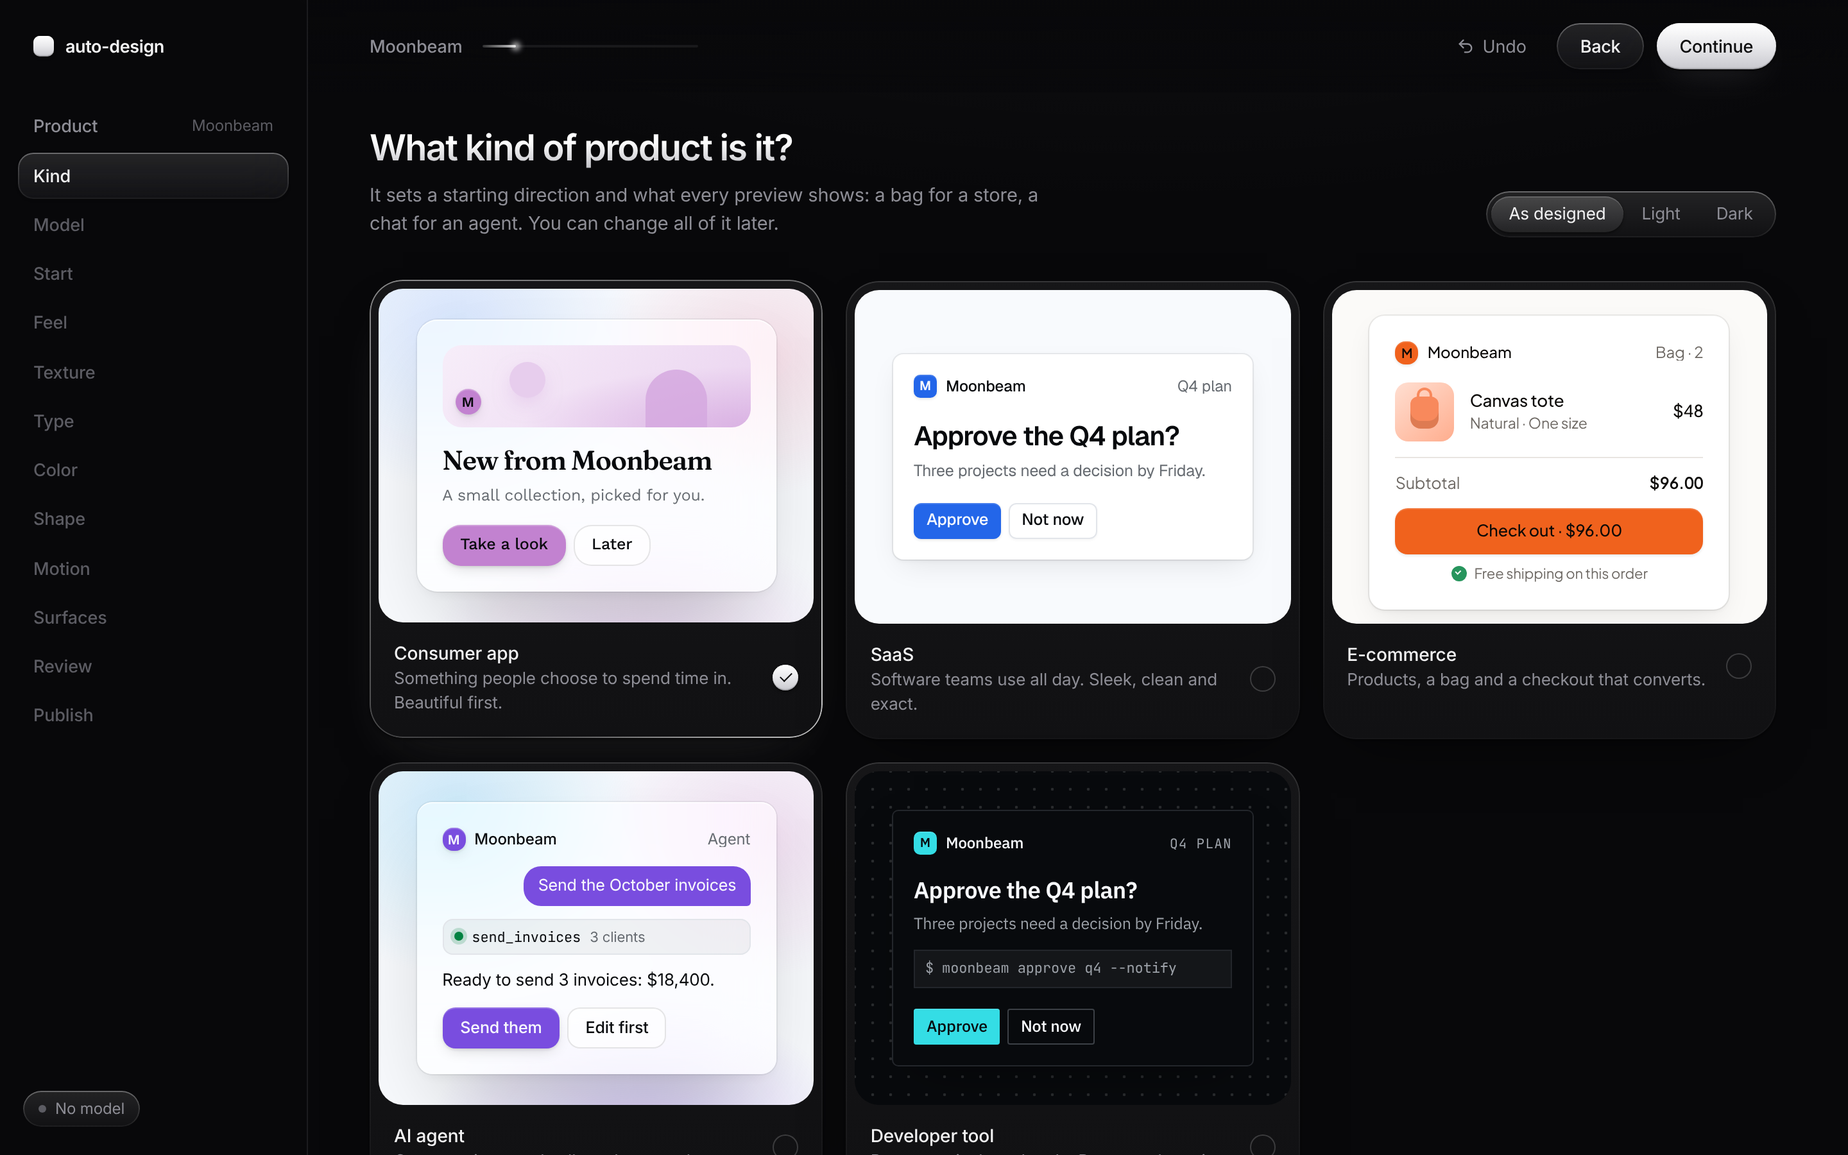
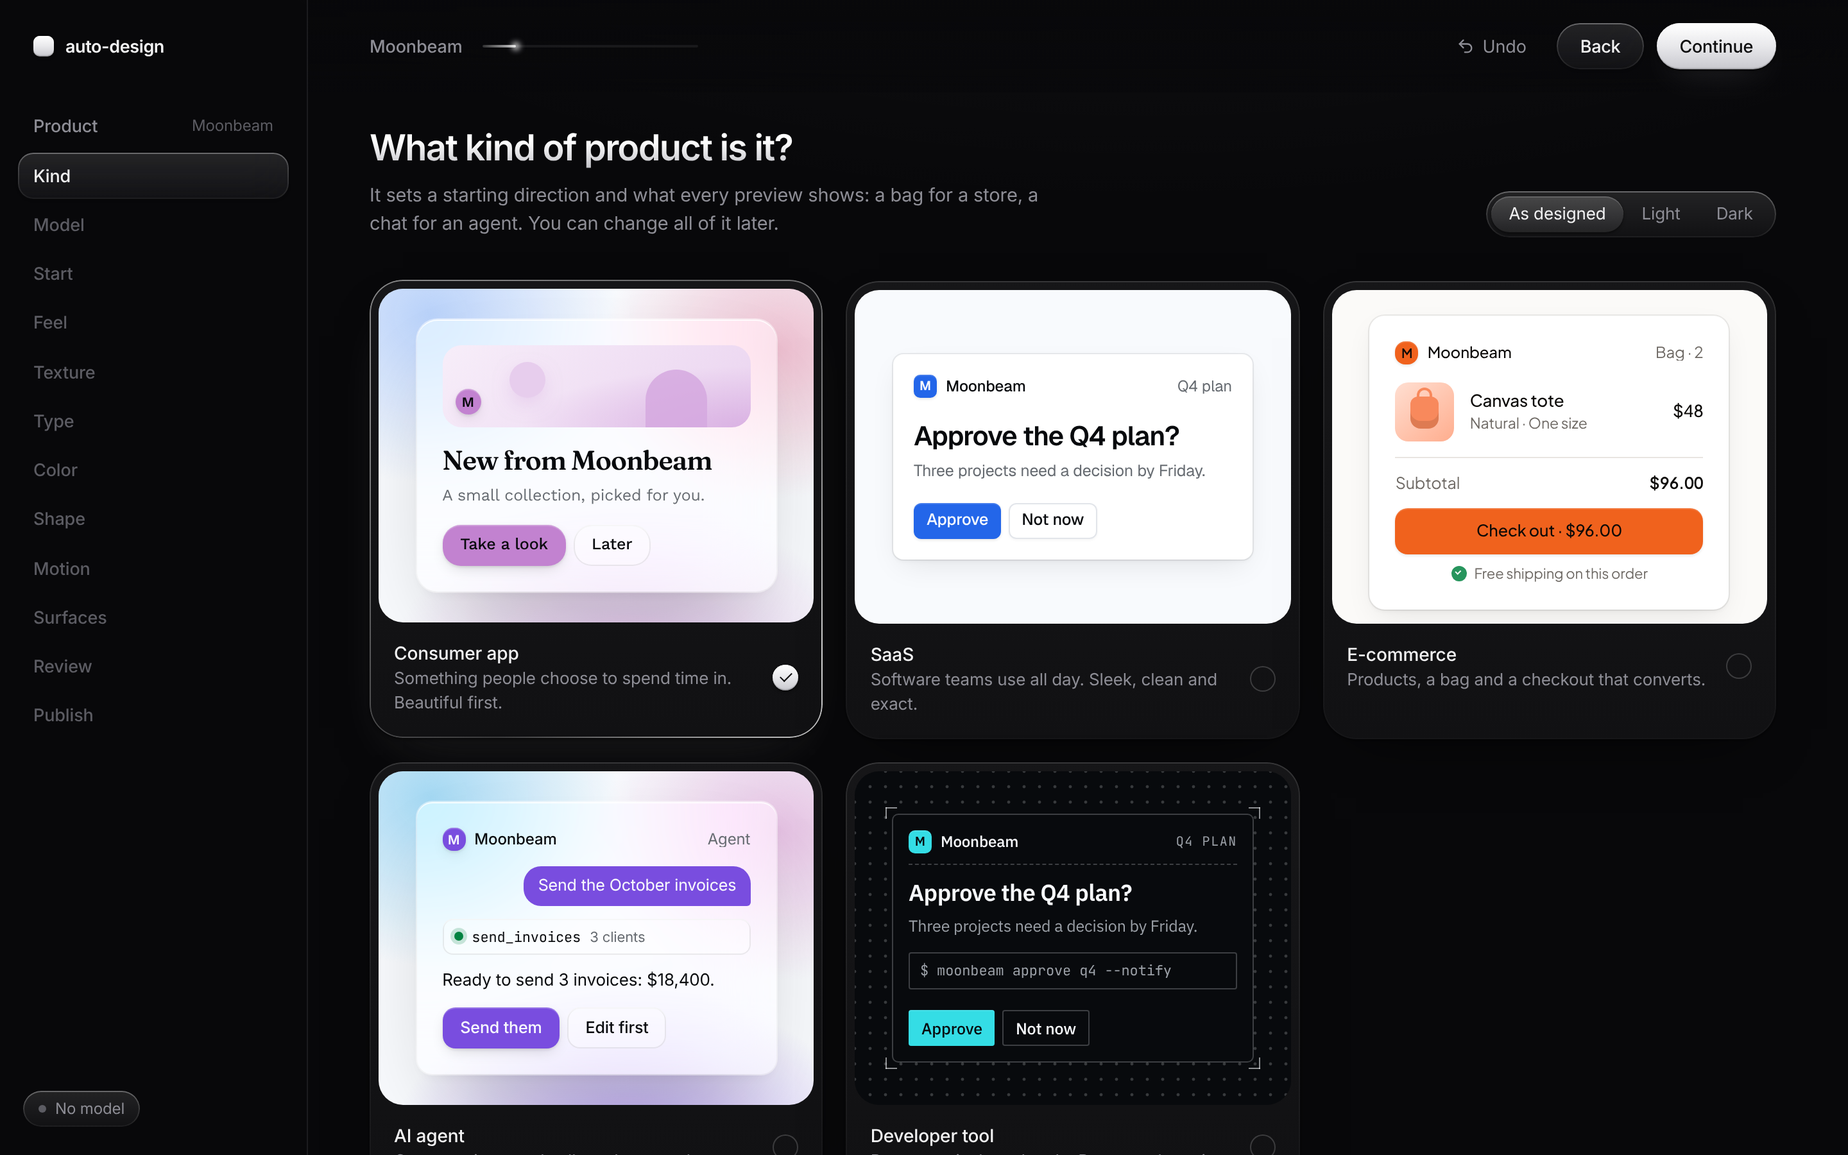
Make the textures read apart in every preview
On the Texture step every option was a white card on a pale ground with
the same buttons. Each texture now puts its signature on the ground and on
how the object is built: Editorial is a ruled page with bigger type, Glass
frosts the object over a stronger aurora, Tactile lifts it off a deeper
ground with raised buttons and sunken wells, Technical sits on a dot grid
with corner marks, monospace labels and no shadow. Minimal stays the
reference. scripts/texture-sheet.mts draws all five on every object.

Claude-Session: https://claude.ai/code/session_01MVgEcvVNC8gpwzDNAqVnZz

diff --git a/packages/core/src/site/renderer.css b/packages/core/src/site/renderer.css
@@ -343,28 +343,6 @@
 
 /* ---------- Object: one decision card on the system's own backdrop ---------- */
 .sp-tile { height: 100%; min-height: 180px; display: grid; place-items: center; padding: 20px; background: var(--background); }
-.sp[data-texture="minimal"] .sp-tile, .sp[data-texture="minimal"] .sp-stage { background: var(--sidebar); }
-.sp[data-mode="dark"][data-texture="minimal"] .sp-tile, .sp[data-mode="dark"][data-texture="minimal"] .sp-stage { background: var(--background); }
-.sp[data-texture="glass"] .sp-tile, .sp[data-texture="glass"] .sp-stage {
-  background:
-    radial-gradient(60% 70% at 18% 12%, color-mix(in oklab, var(--chart-4) 34%, transparent), transparent 70%),
-    radial-gradient(55% 60% at 88% 20%, color-mix(in oklab, var(--chart-2) 26%, transparent), transparent 70%),
-    radial-gradient(70% 60% at 60% 110%, color-mix(in oklab, var(--primary) 30%, transparent), transparent 70%),
-    var(--background);
-}
-.sp[data-mode="dark"][data-texture="glass"] .sp-tile, .sp[data-mode="dark"][data-texture="glass"] .sp-stage {
-  background:
-    radial-gradient(60% 70% at 18% 12%, color-mix(in oklab, var(--chart-4) 18%, transparent), transparent 70%),
-    radial-gradient(55% 60% at 88% 20%, color-mix(in oklab, var(--chart-2) 14%, transparent), transparent 70%),
-    radial-gradient(70% 60% at 60% 110%, color-mix(in oklab, var(--primary) 22%, transparent), transparent 70%),
-    var(--background);
-}
-.sp[data-texture="technical"] .sp-tile, .sp[data-texture="technical"] .sp-stage {
-  background-color: var(--background);
-  background-image: radial-gradient(color-mix(in oklab, var(--foreground) 14%, transparent) 1px, transparent 1.3px);
-  background-size: 14px 14px; background-position: -7px -7px;
-}
-.sp[data-texture="tactile"] .sp-tile, .sp[data-texture="tactile"] .sp-stage { background: radial-gradient(80% 70% at 50% 0%, color-mix(in oklab, var(--primary) 10%, var(--background)), var(--background) 70%); }
 
 .sp-ob { width: min(280px, 100%); background: var(--card); color: var(--card-foreground); border-radius: var(--sp-r); padding: calc(var(--sp-pad) * 0.5 + 8px); display: flex; flex-direction: column; text-align: left; }
 .sp-ob-top { display: flex; align-items: center; gap: 7px; font-size: 12px; line-height: 1; font-weight: var(--sp-w-medium); white-space: nowrap; min-width: 0; }
@@ -377,30 +355,6 @@
 .sp .sp-ob-a button { height: var(--sp-ctl-sm); padding: 0 calc(var(--sp-btn-px) - 2px); border: 0; border-radius: var(--sp-r-md); font-size: 12.5px; line-height: 1; font-weight: var(--sp-w-medium); white-space: nowrap; cursor: default; }
 .sp .sp-ob-pri { background: var(--primary); color: var(--primary-foreground); box-shadow: var(--sp-raised); }
 .sp .sp-ob-sec { background: transparent; color: var(--card-foreground); box-shadow: inset 0 0 0 1px var(--input); }
-
-/* How each texture builds the object. */
-.sp[data-texture="minimal"] .sp-ob { box-shadow: 0 0 0 1px color-mix(in oklab, var(--foreground) 7%, transparent), var(--sp-shadow-md); }
-.sp[data-texture="minimal"] .sp-ob-a .sp-ob-sec { background: var(--card); box-shadow: inset 0 0 0 1px var(--border), var(--sp-shadow-xs); }
-.sp[data-texture="editorial"] .sp-ob { background: transparent; padding: 0; width: min(300px, 100%); }
-.sp[data-texture="editorial"] .sp-ob-h { margin-top: 22px; font-size: 26px; line-height: 1.08; letter-spacing: -0.025em; }
-.sp[data-texture="editorial"][data-display-titles] .sp-ob-h { font-size: 34px; line-height: 1.02; letter-spacing: -0.01em; }
-.sp[data-texture="editorial"] .sp-ob-p { font-size: 13px; }
-.sp[data-texture="editorial"] .sp-ob-a { margin-top: 18px; padding-top: 14px; border-top: 1px solid var(--border); }
-.sp[data-texture="editorial"] .sp-ob-a .sp-ob-sec { box-shadow: none; padding: 0 6px; text-decoration: underline; text-underline-offset: 3px; }
-.sp[data-texture="glass"] .sp-ob {
-  background: color-mix(in oklab, var(--card) 62%, transparent);
-  -webkit-backdrop-filter: blur(24px) saturate(1.8); backdrop-filter: blur(24px) saturate(1.8);
-  box-shadow: inset 0 1px 0 color-mix(in oklab, white 70%, transparent), 0 0 0 1px color-mix(in oklab, var(--foreground) 6%, transparent), var(--sp-shadow-lg);
-}
-.sp[data-mode="dark"][data-texture="glass"] .sp-ob { background: color-mix(in oklab, var(--card) 58%, transparent); box-shadow: inset 0 1px 0 color-mix(in oklab, white 9%, transparent), 0 0 0 1px color-mix(in oklab, var(--foreground) 9%, transparent), var(--sp-shadow-lg); }
-.sp[data-texture="glass"] .sp-ob-a .sp-ob-sec { background: color-mix(in oklab, var(--card) 60%, transparent); box-shadow: inset 0 0 0 1px color-mix(in oklab, var(--foreground) 10%, transparent); }
-.sp[data-texture="technical"] .sp-ob { box-shadow: 0 0 0 1px var(--border), 0 16px 40px -16px oklch(0 0 0 / 0.5); }
-.sp[data-texture="technical"] .sp-ob-top .lb { font-family: var(--sp-mono); font-size: 10.5px; letter-spacing: 0.06em; }
-.sp[data-texture="technical"] .sp-ob-h { font-size: 18px; letter-spacing: -0.015em; }
-.sp[data-texture="tactile"] .sp-ob { box-shadow: 0 1px 2px oklch(0 0 0 / 0.04), 0 12px 32px -10px color-mix(in oklab, var(--primary) 24%, oklch(0 0 0 / 0.18)); }
-.sp[data-mode="dark"][data-texture="tactile"] .sp-ob { box-shadow: 0 0 0 1px var(--border), 0 12px 32px -10px oklch(0 0 0 / 0.5); }
-.sp[data-texture="tactile"] .sp-ob-h { font-size: 22px; letter-spacing: -0.03em; }
-.sp[data-texture="tactile"] .sp-ob-a .sp-ob-sec { background: var(--muted); box-shadow: none; }
 
 /* ---------- The other objects: a store, an agent, a consumer moment ---------- */
 .sp-ob-a.wide button { flex: 1; }
@@ -434,10 +388,136 @@
 .sp-mo-art i:nth-child(2) { right: 14%; top: 30%; width: 48px; height: 48px; border-radius: 50% 50% 0 0; background: color-mix(in oklab, var(--primary) 70%, var(--card)); opacity: .85; }
 .sp-moment .sp-ob-h { margin-top: 12px; }
 .sp-moment .sp-ob-a { margin-top: 14px; }
-.sp[data-texture="editorial"] .sp-moment .sp-ob-h { margin-top: 14px; font-size: 22px; }
-.sp[data-texture="editorial"][data-display-titles] .sp-moment .sp-ob-h { font-size: 28px; }
-.sp[data-texture="editorial"] .sp-moment .sp-ob-a { margin-top: 14px; padding-top: 12px; }
+
+/* ---------- How each texture builds the objects ----------
+   The Texture step holds everything else still, so each texture puts its signature where the eye lands
+   first: the ground the object sits on, and how the object is built. Minimal is the reference: a light
+   step of gray, one white surface, a hairline and a soft shadow. Editorial drops the box for rules and
+   bigger type. Glass frosts the object over colored light. Tactile lifts it off a deeper ground, with
+   buttons that stand up and wells that sink in. Technical draws it on a grid: hairlines, corner marks,
+   monospace labels and no shadow. */
+
+/* Minimal: structure from space. */
+.sp[data-texture="minimal"] .sp-tile, .sp[data-texture="minimal"] .sp-stage { background: var(--sidebar); }
+.sp[data-mode="dark"][data-texture="minimal"] .sp-tile, .sp[data-mode="dark"][data-texture="minimal"] .sp-stage { background: var(--background); }
+.sp[data-texture="minimal"] .sp-ob { box-shadow: 0 0 0 1px color-mix(in oklab, var(--foreground) 7%, transparent), var(--sp-shadow-md); }
+.sp[data-texture="minimal"] .sp-ob-a .sp-ob-sec { background: var(--card); box-shadow: inset 0 0 0 1px var(--border), var(--sp-shadow-xs); }
+
+/* Editorial: a page, not a card. Type sets the hierarchy and rules divide it. */
+.sp[data-texture="editorial"] .sp-ob { background: transparent; padding: 0; width: min(300px, 100%); }
+.sp[data-texture="editorial"] .sp-ob-top { padding-bottom: 9px; border-bottom: 1px solid var(--foreground); }
+.sp[data-texture="editorial"] .sp-ob-top .lb { font-size: 10px; letter-spacing: 0.12em; text-transform: uppercase; }
+.sp[data-texture="editorial"] .sp-ob-h { margin-top: 16px; font-size: 30px; line-height: 1.04; letter-spacing: -0.03em; }
+.sp[data-texture="editorial"][data-display-titles] .sp-ob-h { font-size: 36px; line-height: 1; letter-spacing: -0.01em; }
+.sp[data-texture="editorial"] .sp-ob-p { margin-top: 8px; font-size: 13.5px; }
+.sp[data-texture="editorial"] .sp-ob-a { margin-top: 16px; padding-top: 12px; border-top: 1px solid var(--border); }
+.sp[data-texture="editorial"] .sp-ob-a .sp-ob-sec { box-shadow: none; padding: 0 6px; text-decoration: underline; text-underline-offset: 3px; }
+.sp[data-texture="editorial"] .sp-ob-cmd, .sp[data-texture="editorial"] .sp-ag-tool { background: none; box-shadow: none; border-radius: 0; padding: 1px 0 1px 10px; border-left: 2px solid var(--foreground); }
+.sp[data-texture="editorial"] .sp-ag-say { margin-top: 12px; font-family: var(--sp-display, var(--sp-sans)); font-size: 19px; line-height: 1.25; letter-spacing: -0.02em; }
+.sp[data-texture="editorial"] .sp-shop-txt b { font-size: 16px; letter-spacing: -0.015em; }
+.sp[data-texture="editorial"] .sp-shop-sum { border-top-color: var(--foreground); }
+.sp[data-texture="editorial"] .sp-shop-sum b { font-size: 16px; }
+.sp[data-texture="editorial"] .sp-shop-img { border-radius: 0; }
 .sp[data-texture="editorial"] .sp-mo-art { border-radius: 0; }
+.sp[data-texture="editorial"] .sp-moment .sp-ob-h { margin-top: 14px; font-size: 26px; }
+.sp[data-texture="editorial"][data-display-titles] .sp-moment .sp-ob-h { font-size: 32px; }
+.sp[data-texture="editorial"] .sp-moment .sp-ob-a { margin-top: 14px; padding-top: 12px; }
+
+/* Glass: frosted over light in the brand's neighboring hues, so the frosting has color to catch. */
+.sp[data-texture="glass"] .sp-tile, .sp[data-texture="glass"] .sp-stage {
+  background:
+    radial-gradient(62% 72% at 12% 8%, color-mix(in oklab, var(--chart-4) 62%, transparent), transparent 70%),
+    radial-gradient(58% 64% at 92% 18%, color-mix(in oklab, var(--chart-2) 50%, transparent), transparent 70%),
+    radial-gradient(76% 64% at 58% 112%, color-mix(in oklab, var(--primary) 52%, transparent), transparent 72%),
+    var(--background);
+}
+.sp[data-mode="dark"][data-texture="glass"] .sp-tile, .sp[data-mode="dark"][data-texture="glass"] .sp-stage {
+  background:
+    radial-gradient(62% 72% at 12% 8%, color-mix(in oklab, var(--chart-4) 34%, transparent), transparent 70%),
+    radial-gradient(58% 64% at 92% 18%, color-mix(in oklab, var(--chart-2) 28%, transparent), transparent 70%),
+    radial-gradient(76% 64% at 58% 112%, color-mix(in oklab, var(--primary) 40%, transparent), transparent 72%),
+    var(--background);
+}
+.sp[data-texture="glass"] .sp-ob {
+  background: color-mix(in oklab, var(--card) 52%, transparent);
+  -webkit-backdrop-filter: blur(24px) saturate(1.8); backdrop-filter: blur(24px) saturate(1.8);
+  box-shadow: inset 0 1px 0 color-mix(in oklab, white 80%, transparent), 0 0 0 1px color-mix(in oklab, white 45%, transparent), var(--sp-shadow-lg);
+}
+.sp[data-mode="dark"][data-texture="glass"] .sp-ob { background: color-mix(in oklab, var(--card) 46%, transparent); box-shadow: inset 0 1px 0 color-mix(in oklab, white 12%, transparent), 0 0 0 1px color-mix(in oklab, white 9%, transparent), var(--sp-shadow-lg); }
+.sp[data-texture="glass"] .sp-ob-a .sp-ob-sec, .sp[data-texture="glass"] .sp-ag-tool, .sp[data-texture="glass"] .sp-ob-cmd {
+  background: color-mix(in oklab, white 34%, transparent); box-shadow: inset 0 1px 0 color-mix(in oklab, white 60%, transparent), inset 0 0 0 1px color-mix(in oklab, var(--foreground) 8%, transparent);
+}
+.sp[data-mode="dark"][data-texture="glass"] .sp-ob-a .sp-ob-sec, .sp[data-mode="dark"][data-texture="glass"] .sp-ag-tool, .sp[data-mode="dark"][data-texture="glass"] .sp-ob-cmd {
+  background: color-mix(in oklab, white 7%, transparent); box-shadow: inset 0 1px 0 color-mix(in oklab, white 10%, transparent), inset 0 0 0 1px color-mix(in oklab, white 8%, transparent);
+}
+.sp[data-texture="glass"] .sp-shop-sum { border-top-color: color-mix(in oklab, var(--foreground) 10%, transparent); }
+
+/* Tactile: an object lifted off a deeper ground; buttons stand up, wells sink in. */
+.sp[data-texture="tactile"] .sp-tile, .sp[data-texture="tactile"] .sp-stage {
+  background: radial-gradient(90% 80% at 50% 0%, color-mix(in oklab, var(--primary) 7%, var(--muted)), color-mix(in oklab, var(--primary) 12%, color-mix(in oklab, var(--muted), var(--foreground) 6%)));
+}
+.sp[data-mode="dark"][data-texture="tactile"] .sp-tile, .sp[data-mode="dark"][data-texture="tactile"] .sp-stage {
+  background: radial-gradient(90% 80% at 50% 0%, color-mix(in oklab, var(--primary) 10%, var(--muted)), color-mix(in oklab, var(--primary) 6%, var(--background)));
+}
+.sp[data-texture="tactile"] .sp-ob {
+  box-shadow: inset 0 1px 0 color-mix(in oklab, white 90%, transparent), inset 0 -2px 0 color-mix(in oklab, black 5%, transparent),
+    0 1px 2px oklch(0 0 0 / 0.06), 0 6px 12px -6px oklch(0 0 0 / 0.12), 0 22px 40px -14px color-mix(in oklab, var(--primary) 34%, oklch(0 0 0 / 0.3));
+}
+.sp[data-mode="dark"][data-texture="tactile"] .sp-ob {
+  box-shadow: inset 0 1px 0 color-mix(in oklab, white 9%, transparent), inset 0 -2px 0 oklch(0 0 0 / 0.3), 0 0 0 1px oklch(0 0 0 / 0.4), 0 22px 40px -14px oklch(0 0 0 / 0.7);
+}
+.sp[data-texture="tactile"] .sp-ob-h { font-size: 22px; letter-spacing: -0.03em; }
+.sp[data-texture="tactile"] .sp-ob-a .sp-ob-pri {
+  box-shadow: inset 0 1px 0 color-mix(in oklab, white 30%, transparent), inset 0 -2px 0 oklch(0 0 0 / 0.22), 0 1px 2px oklch(0 0 0 / 0.14), 0 6px 12px -4px color-mix(in oklab, var(--primary) 55%, transparent);
+}
+.sp[data-texture="tactile"] .sp-ob-a .sp-ob-sec {
+  background: var(--card);
+  box-shadow: inset 0 1px 0 color-mix(in oklab, white 90%, transparent), inset 0 -2px 0 oklch(0 0 0 / 0.07), 0 0 0 1px oklch(0 0 0 / 0.05), 0 2px 5px -1px oklch(0 0 0 / 0.14);
+}
+.sp[data-mode="dark"][data-texture="tactile"] .sp-ob-a .sp-ob-sec {
+  background: color-mix(in oklab, var(--card), white 6%);
+  box-shadow: inset 0 1px 0 color-mix(in oklab, white 10%, transparent), inset 0 -2px 0 oklch(0 0 0 / 0.3), 0 2px 5px -1px oklch(0 0 0 / 0.5);
+}
+.sp[data-texture="tactile"] .sp-ag-tool, .sp[data-texture="tactile"] .sp-ob-cmd {
+  background: color-mix(in oklab, var(--muted), var(--foreground) 3%);
+  box-shadow: inset 0 1px 3px oklch(0 0 0 / 0.14), inset 0 0 0 1px oklch(0 0 0 / 0.03), 0 1px 0 color-mix(in oklab, white 80%, transparent);
+}
+.sp[data-mode="dark"][data-texture="tactile"] .sp-ag-tool, .sp[data-mode="dark"][data-texture="tactile"] .sp-ob-cmd {
+  background: var(--background);
+  box-shadow: inset 0 1px 3px oklch(0 0 0 / 0.6), 0 1px 0 color-mix(in oklab, white 6%, transparent);
+}
+.sp[data-texture="tactile"] .sp-shop-img { box-shadow: inset 0 1px 0 color-mix(in oklab, white 40%, transparent), 0 4px 10px -4px color-mix(in oklab, var(--primary) 50%, transparent); }
+
+/* Technical: drawn on a grid. Hairline edges with corner marks, no shadow, monospace labels. */
+.sp[data-texture="technical"] .sp-tile, .sp[data-texture="technical"] .sp-stage {
+  background-color: var(--background);
+  background-image: radial-gradient(color-mix(in oklab, var(--foreground) 24%, transparent) 1px, transparent 1.4px);
+  background-size: 12px 12px; background-position: -6px -6px;
+}
+.sp[data-mode="dark"][data-texture="technical"] .sp-tile, .sp[data-mode="dark"][data-texture="technical"] .sp-stage {
+  background-image: radial-gradient(color-mix(in oklab, var(--foreground) 20%, transparent) 1px, transparent 1.4px);
+}
+.sp[data-texture="technical"] .sp-ob { position: relative; padding: calc(var(--sp-pad) * 0.5 + 4px); box-shadow: 0 0 0 1px color-mix(in oklab, var(--foreground) 22%, transparent); }
+.sp[data-texture="technical"] .sp-ag-you, .sp[data-texture="technical"] .sp-ag-tool, .sp[data-texture="technical"] .sp-ag-say { margin-top: 8px; }
+.sp[data-texture="technical"] .sp-agent .sp-ob-a { margin-top: 10px; }
+.sp[data-texture="technical"] .sp-ob::before {
+  --tk: color-mix(in oklab, var(--foreground) 55%, transparent);
+  content: ""; position: absolute; inset: -6px; pointer-events: none;
+  background:
+    linear-gradient(var(--tk), var(--tk)) left top / 9px 1px no-repeat, linear-gradient(var(--tk), var(--tk)) left top / 1px 9px no-repeat,
+    linear-gradient(var(--tk), var(--tk)) right top / 9px 1px no-repeat, linear-gradient(var(--tk), var(--tk)) right top / 1px 9px no-repeat,
+    linear-gradient(var(--tk), var(--tk)) left bottom / 9px 1px no-repeat, linear-gradient(var(--tk), var(--tk)) left bottom / 1px 9px no-repeat,
+    linear-gradient(var(--tk), var(--tk)) right bottom / 9px 1px no-repeat, linear-gradient(var(--tk), var(--tk)) right bottom / 1px 9px no-repeat;
+}
+.sp[data-texture="technical"] .sp-ob-top { padding-bottom: 8px; border-bottom: 1px dashed color-mix(in oklab, var(--foreground) 22%, transparent); }
+.sp[data-texture="technical"] .sp-ob-top .lb { font-family: var(--sp-mono); font-size: 10px; letter-spacing: 0.08em; text-transform: uppercase; }
+.sp[data-texture="technical"] .sp-ob-h { margin-top: 12px; font-size: 18px; letter-spacing: -0.015em; }
+.sp[data-texture="technical"] .sp-ob-a .sp-ob-sec { box-shadow: inset 0 0 0 1px color-mix(in oklab, var(--foreground) 22%, transparent); }
+.sp[data-texture="technical"] .sp-ag-tool, .sp[data-texture="technical"] .sp-ob-cmd { background: transparent; box-shadow: inset 0 0 0 1px color-mix(in oklab, var(--foreground) 22%, transparent); border-radius: max(2px, calc(var(--sp-r-sm) - 2px)); }
+.sp[data-texture="technical"] .sp-ag-tool i { border-radius: 1px; box-shadow: none; }
+.sp[data-texture="technical"] .sp-shop-txt span, .sp[data-texture="technical"] .sp-shop-price, .sp[data-texture="technical"] .sp-shop-sum { font-family: var(--sp-mono); }
+.sp[data-texture="technical"] .sp-shop-txt span, .sp[data-texture="technical"] .sp-shop-sum span { font-size: 10.5px; letter-spacing: 0.04em; text-transform: uppercase; }
+.sp[data-texture="technical"] .sp-shop-sum { border-top-style: dashed; }
 .sp[data-texture="technical"] .sp-mo-art { background: repeating-linear-gradient(90deg, color-mix(in oklab, var(--primary) 16%, var(--card)) 0 1px, transparent 1px 10px), linear-gradient(135deg, color-mix(in oklab, var(--primary) 10%, var(--card)), color-mix(in oklab, var(--primary) 34%, var(--card))); }
 
 /* ---------- Typeface: the type alone ---------- */

diff --git a/CLAUDE.md b/CLAUDE.md
@@ -161,6 +161,18 @@ user-facing story; this file is how to work on it.
     most vivid color from the site or images in the kind's full direction. The model's suggestion prompt
     is told to take more risk for consumer products, and suggestions and refinements get the kind.
   - The drop art is recolored pastel: pink and blue on a soft indigo screen.
+- Texture pass (October 28, 2026). Tina, on the Texture step: "the differences are not very apparent?" Every
+  option was a white card on a pale ground with the same purple buttons; texture only moved a shadow or a
+  hairline. Now each texture puts its signature where the eye lands first, the ground and how the object is
+  built (one block, "How each texture builds the objects", in `site/renderer.css`): Minimal stays the
+  reference (gray step, white card, hairline, soft shadow); Editorial is a page, not a card (a solid rule
+  under the header, uppercase label, larger type, the tool call as a ruled line, link-style secondary);
+  Glass frosts the object over a stronger aurora in the brand's neighboring hues; Tactile lifts it off a
+  deeper brand-tinted ground, with a lipped primary, a raised secondary and sunken wells; Technical sits on a
+  visible dot grid with corner marks, a dashed header rule, monospace uppercase labels, hairline edges and no
+  shadow (its emitted cards have none), and tighter spacing. Review with `scripts/texture-sheet.mts`. The
+  emitted CSS didn't change: the previews are stronger than a whole page would be, so a later pass could
+  strengthen the emitted tokens to match (the glass `bg-backdrop` and tactile `raised` are the obvious two).
 
 ## Layout
 
@@ -215,6 +227,7 @@ cd examples/next-quiet && npx auto-design add ../quiet-design --components <chan
 node scripts/shot.cjs <url> <out.png> [width] [height] [full] [light|dark]   # screenshot, fonts served locally
 npx tsx scripts/motion-sheet.mts [preset] [ids|all] [format] [mode]          # contact sheet of every animation
 npx tsx scripts/preset-sheet.mts [presets|all] [light|dark|both] [tag]        # every preset on the onboarding specimens
+npx tsx scripts/texture-sheet.mts [light|dark|both] [tag]                     # the five textures on every object, all else held still
 python3 scripts/fonts/curate.py | node scripts/fonts/fetch.mjs                  # look up new families on npm
 python3 scripts/fonts/gen.py                                                    # rewrite core/src/font-catalog.ts
 npx tsx scripts/readme-shots.mts [dir]                                        # the README's dark mode screenshots
